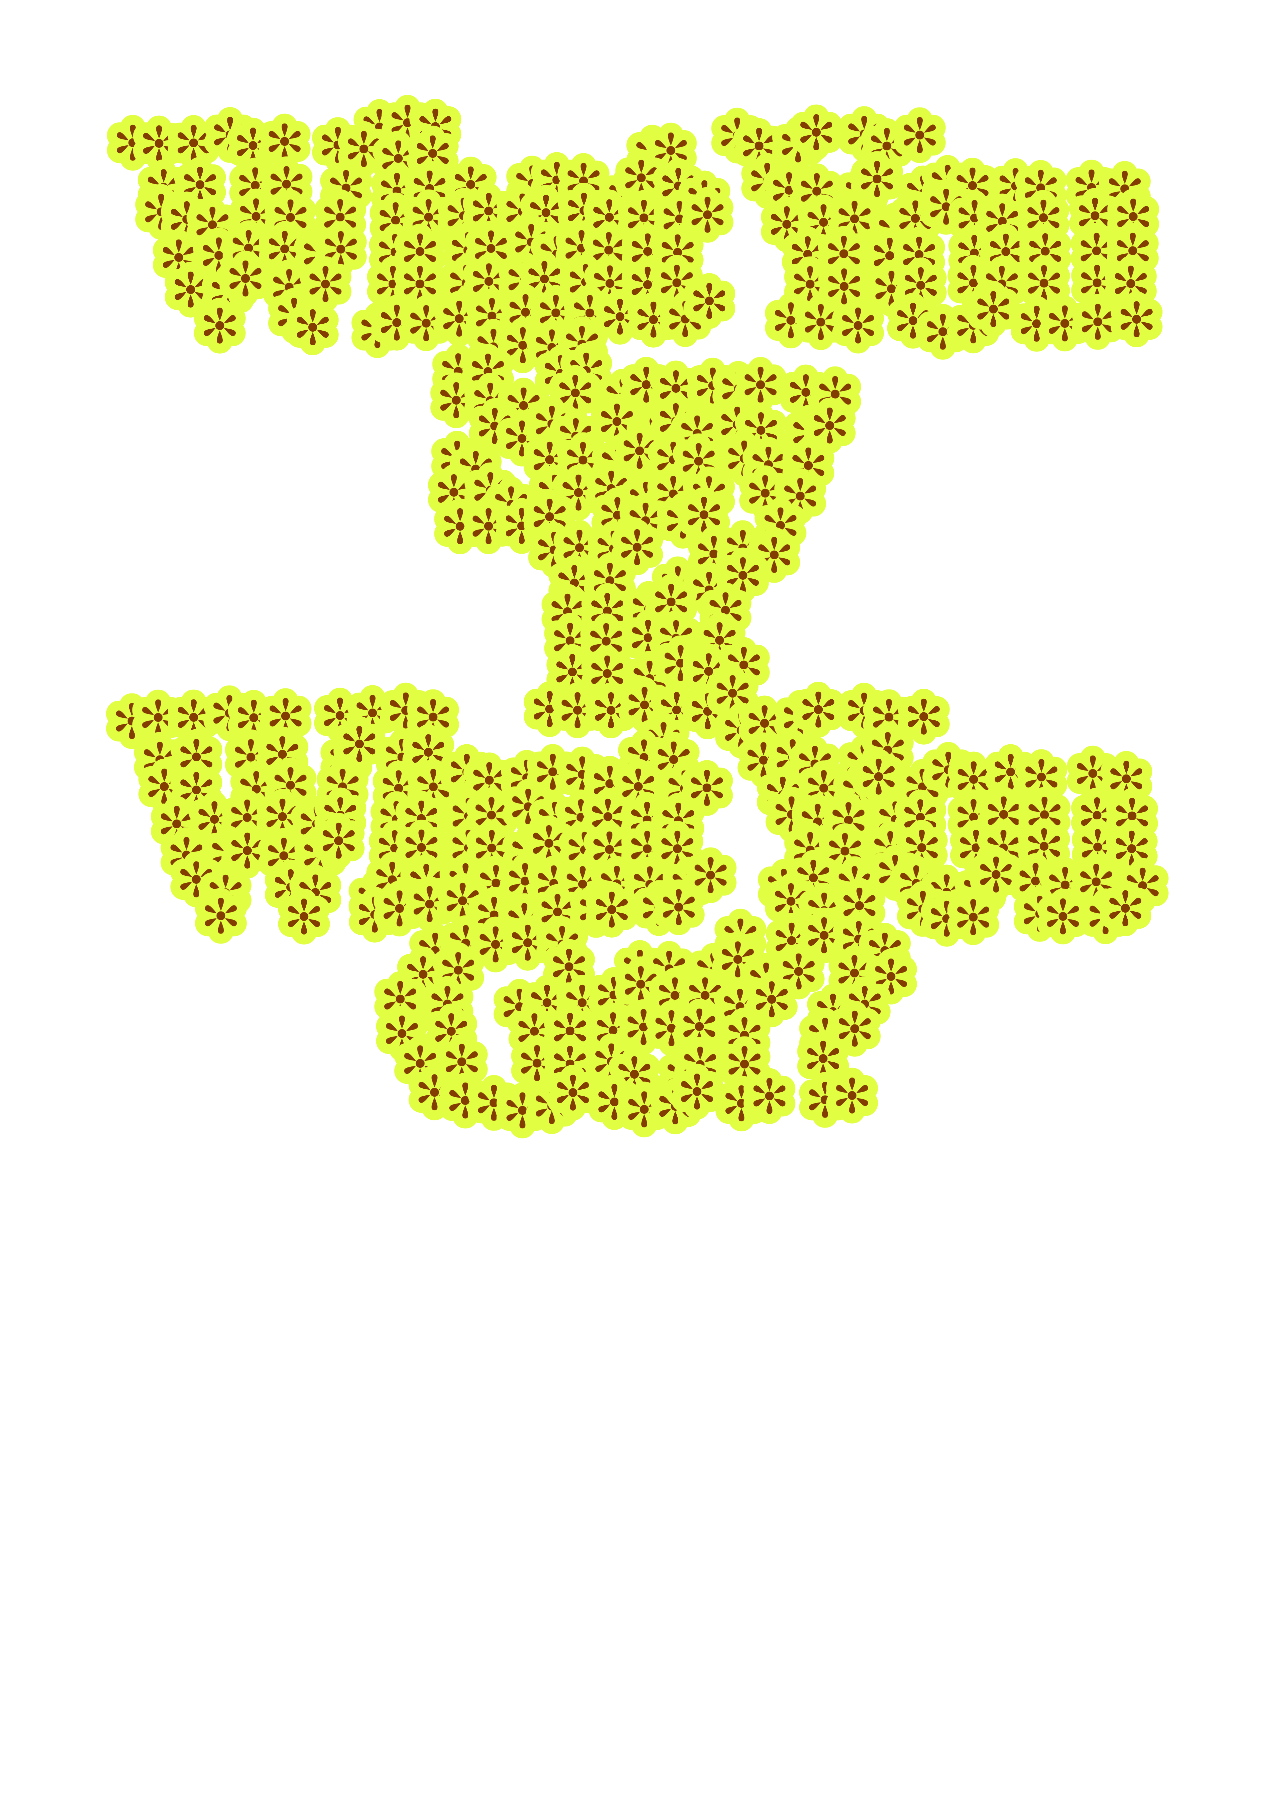
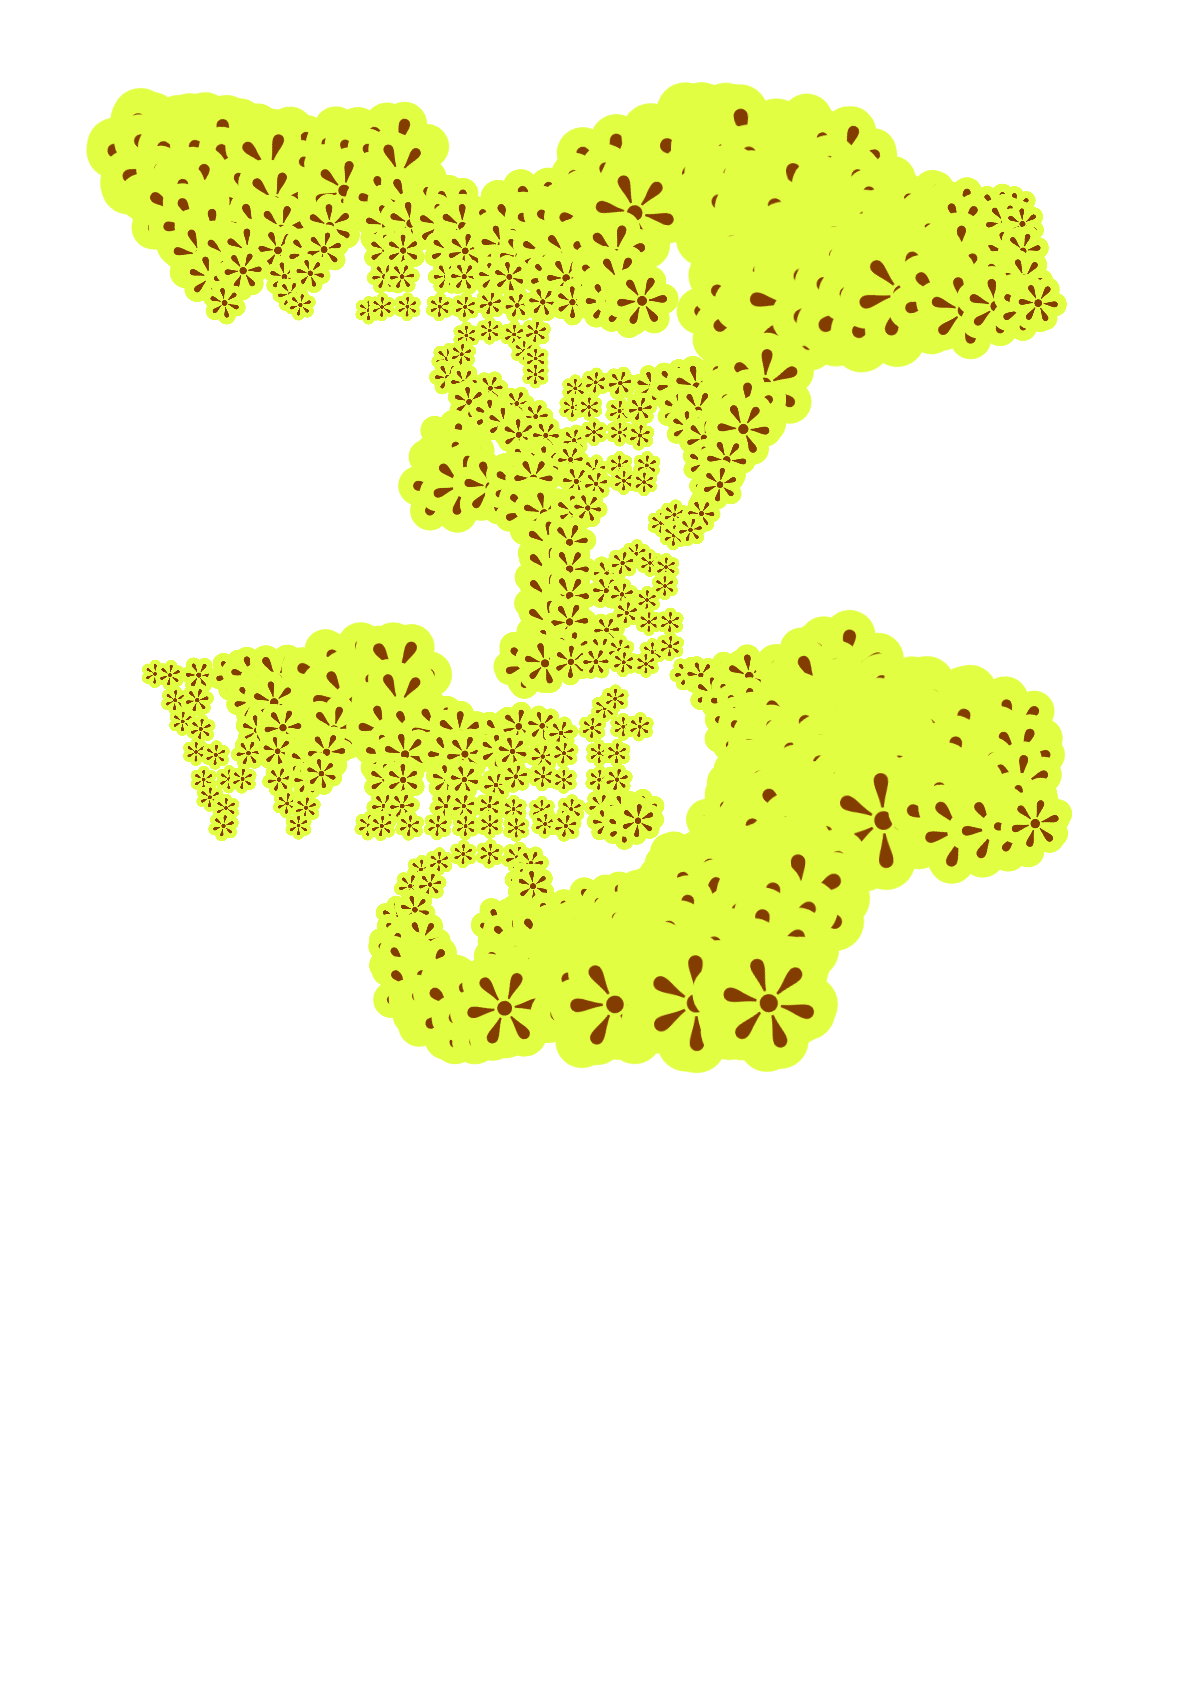
update resampling image

Changed region(s): [[0.0621, 0.0308, 0.932, 0.6473]]

diff --git a/tools/resampling/resampling.js b/tools/resampling/resampling.js
@@ -14,22 +14,22 @@
 export const defaults = {
   spacing: 15, // arc-length gap between initial markers (px)
   marker: '✻', // unicode character placed at each point
-  markerSize: 25, // font-size of the marker glyph (px)
+  markerSize: 20, // font-size of the marker glyph (px)
   markerColor: '#843d00',
   strokeColor: '#e2fe43', // stroke colour — null = no stroke
-  strokeWidth: 10, // stroke width (px)
+  strokeWidth: 5, // stroke width (px)
   bgColor: '#ffffff',
   flatness: 0.5, // bezier subdivision tolerance — font mode only (px)
   relax: true, // enable relaxation animation
   relaxSpeed: 10, // pixels moved per step per unit force
   period: 6, // seconds for one full spread-and-return cycle
   cursorMode: true, // enable cursor interaction (false = static everywhere)
-  cursorRadius: 250, // px — influence radius around cursor (0 = off)
-  cursorScale: 3, // scale multiplier at cursor centre
-  cursorRotation: 270, // degrees rotation at cursor centre
+  cursorRadius: 150, // px — influence radius around cursor (0 = off)
+  cursorScale: 4, // scale multiplier at cursor centre
+  cursorRotation: 360, // degrees rotation at cursor centre
   cursorRepeat: true, // true = cosine repeats (ring at midpoint), false = smooth fade to 0
-  cursorAmplitude: 1, // cosine amplitude (0 = flat 0.5 influence, 0.5 = full 0–1 swing)
-  cursorDelay: 0.3, // lerp factor per frame (0 = frozen, 1 = instant)
+  cursorAmplitude: .5, // cosine amplitude (0 = flat 0.5 influence, 0.5 = full 0–1 swing)
+  cursorDelay: 0.1, // lerp factor per frame (0 = frozen, 1 = instant)
 };
 
 // ─── Cursor tracking ─────────────────────────────────────────────────────────